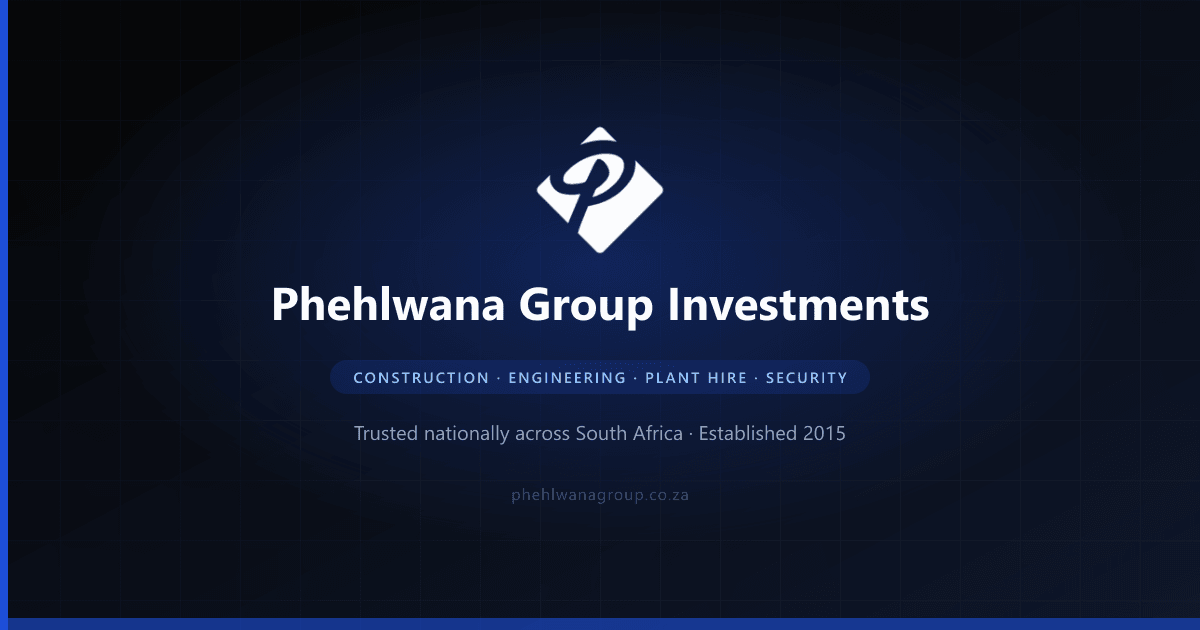
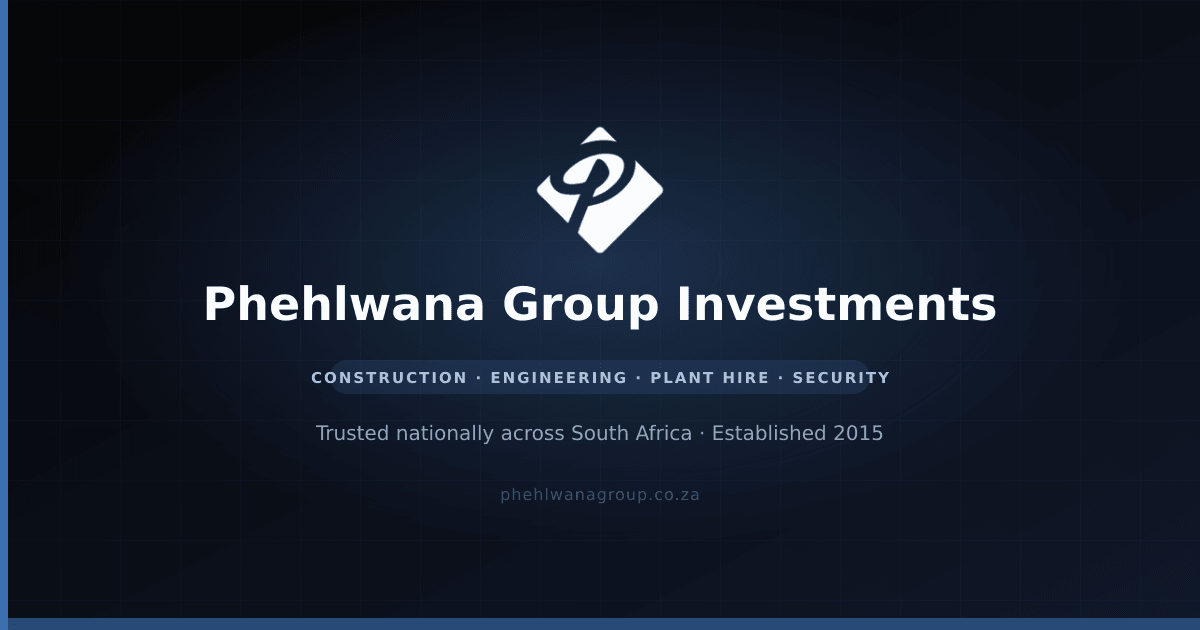
feat: deepen brand primary color to a premium navy
Swap the flat, generic Tailwind blue-700 primary for a richer,
more muted navy across light/dark themes - same blue family, more
corporate feel. Single source of truth in starwind.css cascades to
buttons, links, badges, and focus states site-wide. Regenerated the
branded OG image to match.

Claude-Session: https://claude.ai/code/session_01Uo7SdqWpq8krFSv85PmDJs

diff --git a/src/styles/starwind.css b/src/styles/starwind.css
@@ -93,9 +93,9 @@
   --card-foreground: var(--color-neutral-950);
   --popover: var(--color-white);
   --popover-foreground: var(--color-neutral-950);
-  --primary: var(--color-blue-700);
+  --primary: #1b3b6f;
   --primary-foreground: var(--color-neutral-50);
-  --primary-accent: var(--color-blue-700);
+  --primary-accent: #2f5c99;
   --secondary: var(--color-neutral-200);
   --secondary-foreground: var(--color-neutral-950);
   --secondary-accent: var(--color-neutral-950);
@@ -119,7 +119,7 @@
   /* sidebar variables */
   --sidebar-background: var(--color-neutral-50);
   --sidebar-foreground: var(--color-neutral-950);
-  --sidebar-primary: var(--color-blue-700);
+  --sidebar-primary: #1b3b6f;
   --sidebar-primary-foreground: var(--color-neutral-50);
   --sidebar-accent: var(--color-neutral-100);
   --sidebar-accent-foreground: var(--color-neutral-900);
@@ -134,9 +134,9 @@
   --card-foreground: var(--color-neutral-50);
   --popover: var(--color-neutral-800);
   --popover-foreground: var(--color-neutral-50);
-  --primary: var(--color-blue-700);
+  --primary: #3b6fb0;
   --primary-foreground: var(--color-neutral-50);
-  --primary-accent: var(--color-blue-400);
+  --primary-accent: #6e9ad1;
   --secondary: var(--color-neutral-800);
   --secondary-foreground: var(--color-neutral-50);
   --secondary-accent: var(--color-neutral-50);
@@ -159,7 +159,7 @@
   /* sidebars variables */
   --sidebar-background: var(--color-neutral-900);
   --sidebar-foreground: var(--color-neutral-50);
-  --sidebar-primary: var(--color-blue-700);
+  --sidebar-primary: #3b6fb0;
   --sidebar-primary-foreground: var(--color-neutral-50);
   --sidebar-accent: var(--color-neutral-800);
   --sidebar-accent-foreground: var(--color-neutral-100);
